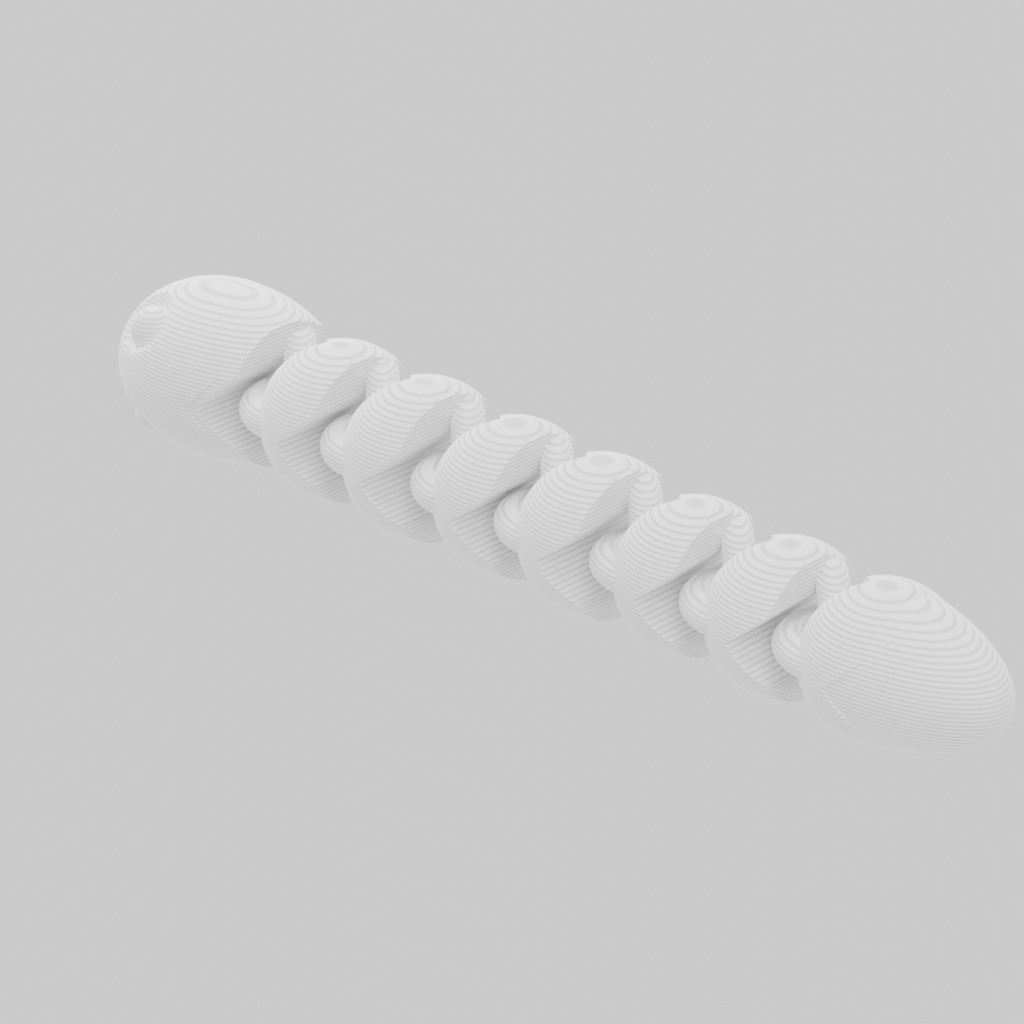
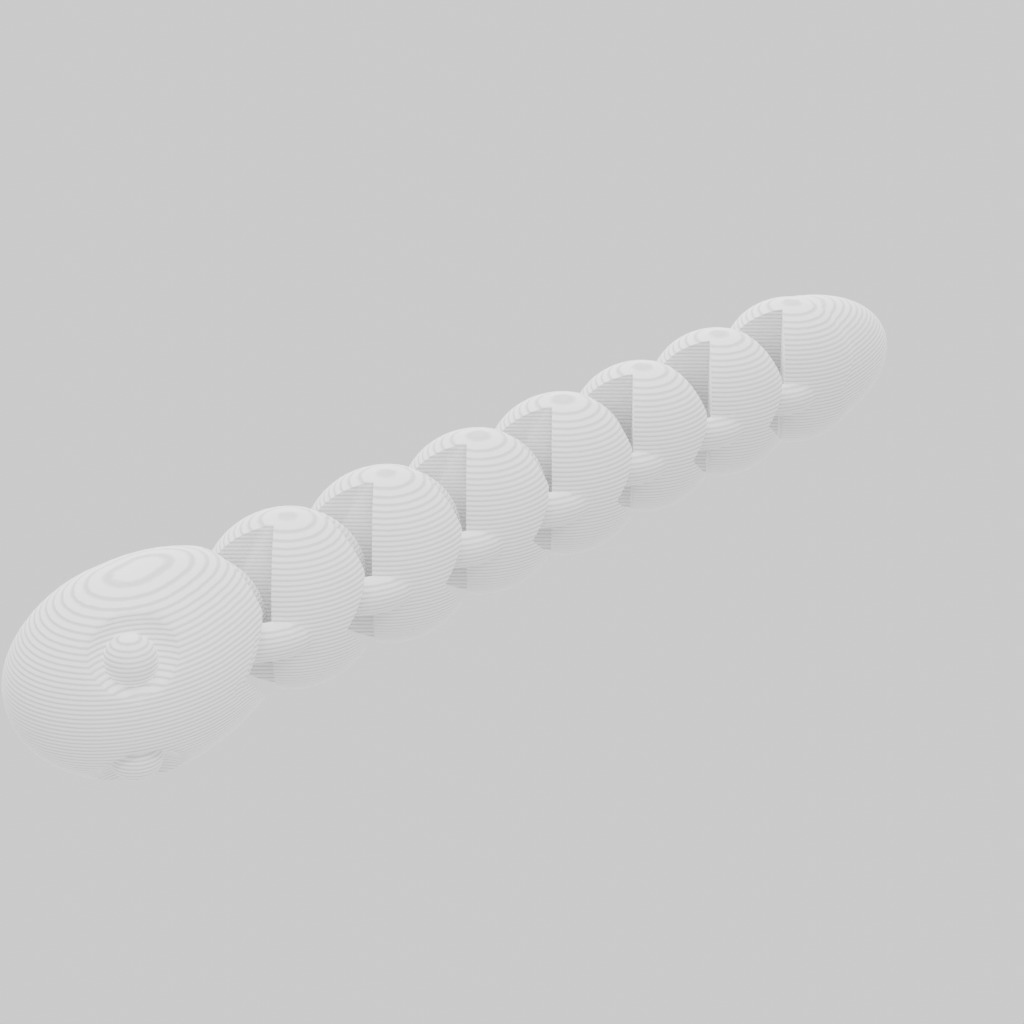
fix: re-render 5 products with another +90° Z rotation
rocktopus, cute-octopus, cute-snakey: rot_z → 270
octopus-long-tentacles: rot_z → 180
flex-slug: rot_z → 180

Also fixes verify-orientation.py vertex coordinate access.

diff --git a/scripts/verify-orientation.py b/scripts/verify-orientation.py
@@ -39,10 +39,9 @@ obj.rotation_euler = (
 bpy.ops.object.transform_apply(location=False, rotation=True, scale=True)
 
 # ── bounding box after rotation ───────────────────────────────────────────────
-bbox = [obj.matrix_world @ v.co for v in obj.data.vertices[:1000:1]]  # sample
-xs = [v.x for v in obj.data.vertices]
-ys = [v.y for v in obj.data.vertices]
-zs = [v.z for v in obj.data.vertices]
+xs = [v.co.x for v in obj.data.vertices]
+ys = [v.co.y for v in obj.data.vertices]
+zs = [v.co.z for v in obj.data.vertices]
 
 dx = max(xs) - min(xs)
 dy = max(ys) - min(ys)
